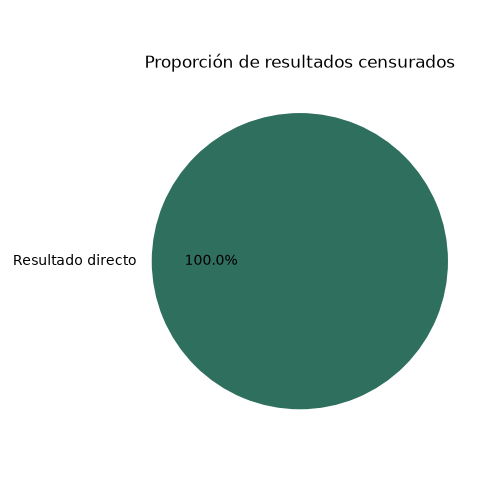
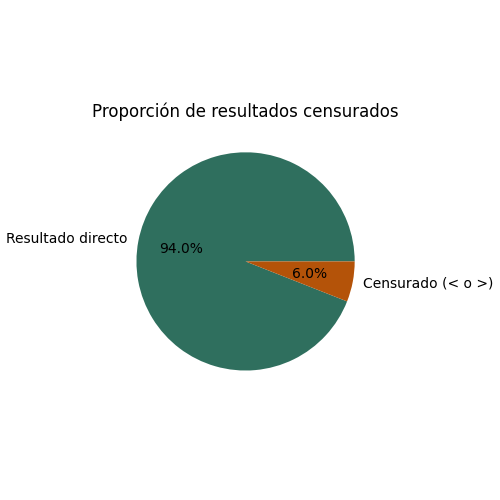
Analisis y contextualización
Se hico el análisis de la dimensión

diff --git a/templates/Dimension_Territorial.html b/templates/Dimension_Territorial.html
@@ -16,7 +16,6 @@
 {% set resultados = datos.resultados %}
 {% set mayor = datos.mayor %}
 {% set menor = datos.menor %}
-{% set diferencia = datos.diferencia %}
 {% set unidad = datos.unidad %}
 {% set graficos_indicadores = datos.graficos_indicadores %}
 {% set histograma = datos.histograma %}
@@ -26,6 +25,7 @@
 
 <div class="territorial">
 	<div class="container">
+		<p class="territorial-descripcion">La población se muestra con una distribución por medios de departamentos y luego segmentados por municipios y puntos de monitoreos pertenecientes al IDEAM, donde se hace la delimitación por la cantidad de registro recolectados en cada uno de los mencionados anterior ment y esto despues de la pregunta principal</p>
 		{% if sin_datos %}
 		<section class="territorial-tarjeta territorial-vacio" role="status">
 			<h2>No hay datos territoriales para mostrar</h2>
@@ -107,10 +107,8 @@
 					</div>
 					{% endfor %}
 				</div>
-				<p class="territorial-lectura">
-					Mayor cantidad: <strong>{{ mayor.territorio }}</strong> ({{ "{:,}".format(mayor.registros).replace(",", ".") }}; {{ "%.2f"|format(mayor.participacion) }}%).
-					Menor cantidad: <strong>{{ menor.territorio }}</strong> ({{ "{:,}".format(menor.registros).replace(",", ".") }}; {{ "%.2f"|format(menor.participacion) }}%).
-					Diferencia: <strong>{{ "{:,}".format(diferencia).replace(",", ".") }} registros</strong>.
+				<p class="territorial-interpretacion">
+					<strong>Interpretación:</strong> {{ mayor.territorio }} reúne más registros y {{ menor.territorio }} menos. Esto muestra cómo se distribuyen las mediciones entre los territorios, no cuál tiene mejor o peor calidad del agua.
 				</p>
 			</section>
 
@@ -146,15 +144,18 @@
 				<div class="territorial-grafico">
 					<h3 class="h6">Barras: mediciones por indicador</h3>
 					<canvas id="grafico-barras" role="img" aria-label="Gráfico de barras con mediciones por indicador"></canvas>
+					<p class="territorial-interpretacion"><strong>Interpretación:</strong> permite comparar los registros obtenidos para cada variable —pH, conductividad eléctrica, nitrato, sulfato, temperatura, oxígeno y fósforo total— en el territorio filtrado. En la visualización revisada predominan los registros de pH, mientras que las demás variables tienen menor presencia; las cantidades cambian al modificar los filtros.</p>
 				</div>
 				<div class="territorial-grafico">
 					<h3 class="h6">Pastel: participación por indicador</h3>
 					<canvas id="grafico-pastel" role="img" aria-label="Gráfico de pastel con participación de cada indicador"></canvas>
+					<p class="territorial-interpretacion"><strong>Interpretación:</strong> permite comparar de forma visual la participación de los indicadores analizados. La gráfica también hace evidente que faltan registros de algunas variables; contar con mediciones más completas ayudaría a realizar un análisis más sólido y a identificar con mayor claridad los aspectos que requieren atención.</p>
 				</div>
 				<div class="territorial-grafico">
 					<h3 class="h6">Histograma: distribución de resultados</h3>
 					<p class="territorial-lectura" id="histograma-nota"></p>
 					<canvas id="grafico-histograma" role="img" aria-label="Histograma de resultados del indicador seleccionado"></canvas>
+					<p class="territorial-interpretacion" id="histograma-interpretacion"><strong>Interpretación:</strong> la distribución de los resultados de pH se concentra dentro de un rango habitual, aunque hay mediciones por encima y por debajo del promedio. Los valores más altos indican menor acidez o mayor alcalinidad; los más bajos pueden asociarse con mayor acidez.</p>
 				</div>
 			</div>
 		</section>
@@ -192,7 +193,7 @@
 		{% endif %}
 		<section class="territorial-tarjeta" aria-labelledby="territorial-caracteristicas">
 			<h2 id="territorial-caracteristicas">Diferencias en las características medidas</h2>
-			{% if indicador_seleccionado and comparacion_unidades_compatible and comparacion_resultados.mayor %}
+			{% if indicador_seleccionado and comparacion_unidades_compatible and total_territorios > 1 and comparacion_resultados.mayor and comparacion_resultados.mayor.valor != comparacion_resultados.menor.valor %}
 				<p class="territorial-subtitulo">
 					Para <strong>{{ indicador_seleccionado }}</strong>{% if unidad %} ({{ unidad }}){% endif %},
 					el promedio más alto está en <strong>{{ comparacion_resultados.mayor.territorio }}</strong>
@@ -247,6 +248,65 @@
 		{% if territorio_seleccionado %}
 		</details>
 		{% endif %}
+
+		<section class="territorial-tarjeta territorial-tarjeta-hallazgo" aria-labelledby="territorial-conocimientos-titulo">
+			<h2 id="territorial-conocimientos-titulo">Conocimientos evidentes</h2>
+			<article class="territorial-conocimiento">
+				<h3>Conocimiento 1: La cantidad de mediciones varía entre territorios</h3>
+				<dl>
+					<dt>Pregunta</dt>
+					<dd>¿Cómo se distribuyen los registros entre los territorios?</dd>
+					<dt>Variables</dt>
+					<dd>{{ nivel_seleccionado }}, cantidad de registros{% if indicador_seleccionado %} y {{ indicador_seleccionado }}{% endif %}.</dd>
+					<dt>Procedimiento</dt>
+					<dd>Se contaron los registros por {{ nivel_seleccionado|lower }} y se calculó qué porcentaje representan del total analizado.</dd>
+					<dt>Evidencia</dt>
+					<dd>{{ mayor.territorio }} presenta {{ "{:,}".format(mayor.registros).replace(",", ".") }} registros ({{ "%.2f"|format(mayor.participacion) }}%); {{ menor.territorio }} presenta {{ "{:,}".format(menor.registros).replace(",", ".") }} ({{ "%.2f"|format(menor.participacion) }}%).</dd>
+					<dt>Hallazgo</dt>
+					<dd>La cantidad de registros no es igual en todos los territorios: {{ mayor.territorio }} tiene la mayor cantidad y {{ menor.territorio }} la menor.</dd>
+					<dt>Interpretación</dt>
+					<dd>La diferencia refleja cómo está distribuida la información y la cobertura del monitoreo territorial.</dd>
+					<dt>Utilidad</dt>
+					<dd>Ayuda a identificar territorios con poca información y orientar dónde fortalecer la recolección de muestras.</dd>
+					<dt>Limitación</dt>
+					<dd>Un mayor número de registros no significa, por sí solo, mejor o peor calidad del agua; también puede deberse a que allí se realizaron más mediciones.</dd>
+				</dl>
+			</article>
+
+			{% if indicador_seleccionado and comparacion_unidades_compatible and comparacion_resultados.mayor %}
+			<article class="territorial-conocimiento">
+				<h3>Conocimiento 2: El resultado de {{ indicador_seleccionado }} difiere entre territorios</h3>
+				<dl>
+					<dt>Pregunta</dt>
+					<dd>¿En qué territorios se observan los promedios más alto y más bajo para el indicador seleccionado?</dd>
+					<dt>Variables</dt>
+					<dd>{{ nivel_seleccionado }}, {{ indicador_seleccionado }}, resultado{% if unidad %} ({{ unidad }}){% endif %}.</dd>
+					<dt>Procedimiento</dt>
+					<dd>Se agruparon los resultados numéricos del indicador por territorio y se compararon sus promedios.</dd>
+					<dt>Evidencia</dt>
+					<dd>El promedio más alto se observa en {{ comparacion_resultados.mayor.territorio }} ({{ "%.3f"|format(comparacion_resultados.mayor.valor) }}{% if unidad %} {{ unidad }}{% endif %}) y el más bajo en {{ comparacion_resultados.menor.territorio }} ({{ "%.3f"|format(comparacion_resultados.menor.valor) }}{% if unidad %} {{ unidad }}{% endif %}).</dd>
+					<dt>Hallazgo</dt>
+					<dd>Los promedios del indicador seleccionado no son iguales entre los territorios analizados.</dd>
+					<dt>Interpretación</dt>
+					<dd>La diferencia señala una variación territorial que puede revisarse con los datos de cada punto de monitoreo.</dd>
+					<dt>Utilidad</dt>
+					<dd>Permite priorizar la revisión de los territorios con valores que ameriten seguimiento.</dd>
+					<dt>Limitación</dt>
+					<dd>El promedio resume las mediciones disponibles y no demuestra que el territorio sea la causa de la diferencia.</dd>
+				</dl>
+			</article>
+			{% endif %}
+		</section>
+
+		<section class="territorial-tarjeta territorial-tarjeta-hallazgo" aria-labelledby="territorial-limitacion-titulo">
+			<h2 id="territorial-limitacion-titulo">Limitación del análisis</h2>
+			<p class="territorial-lectura">Un territorio con más registros puede tener más puntos de monitoreo, no necesariamente una condición distinta del agua. Los gráficos describen los datos disponibles, pero no explican las causas de las diferencias.</p>
+		</section>
+
+		<section class="territorial-tarjeta territorial-tarjeta-hallazgo" aria-labelledby="territorial-decision-titulo">
+			<h2 id="territorial-decision-titulo">Posible decisión sustentada en los datos</h2>
+			<p class="territorial-lectura">Fortalecer el monitoreo en los territorios con pocos registros y revisar con más detalle aquellos donde los resultados del indicador seleccionado se concentran en rangos que requieren atención.</p>
+		</section>
 	</div>
 </div>
 <script src="https://cdn.jsdelivr.net/npm/chart.js@4.4.7/dist/chart.umd.min.js"></script>
@@ -392,6 +452,14 @@
 			graficos.histograma.update();
 
 			const nota = document.getElementById("histograma-nota");
+			const interpretacion = document.getElementById("histograma-interpretacion");
+			if (indicadorHistograma.toLocaleLowerCase("es").includes("ph")) {
+				interpretacion.innerHTML =
+					"<strong>Interpretación:</strong> los resultados de pH se concentran dentro de un rango habitual, aunque hay mediciones por encima y por debajo del promedio. Los valores más altos indican menor acidez o mayor alcalinidad; los más bajos pueden asociarse con mayor acidez.";
+			} else {
+				interpretacion.innerHTML =
+					"<strong>Interpretación:</strong> la distribución muestra los rangos donde se agrupan más resultados del indicador seleccionado. Los valores repartidos entre varios rangos reflejan variación entre las mediciones.";
+			}
 			if (unidades.length > 1) {
 				nota.textContent = `No se mezclan resultados de ${indicadorHistograma}: hay varias unidades.`;
 			} else if (!valores.length) {

diff --git a/static/css/styles.css b/static/css/styles.css
@@ -484,6 +484,45 @@ button:focus-visible {
 	box-shadow: 0 6px 20px rgb(23 107 85 / 6%);
 }
 
+.territorial-tarjeta-hallazgo {
+	border-color: rgb(0 169 157 / 16%);
+	background: linear-gradient(
+		120deg,
+		rgb(121 192 0 / 8%),
+		rgb(0 169 157 / 7%)
+	);
+}
+
+.territorial-conocimiento {
+	margin-top: 1rem;
+	padding: 1rem 1.25rem;
+	border: 1px solid var(--territorial-borde);
+	border-radius: 0.65rem;
+	background: rgb(255 255 255 / 78%);
+}
+
+.territorial-conocimiento h3 {
+	margin: 0 0 0.75rem;
+	color: var(--territorial-verde-oscuro);
+	font-size: 1.08rem;
+}
+
+.territorial-conocimiento dl {
+	display: grid;
+	grid-template-columns: minmax(110px, 145px) minmax(0, 1fr);
+	gap: 0.45rem 1rem;
+	margin: 0;
+}
+
+.territorial-conocimiento dt {
+	color: var(--territorial-verde);
+	font-weight: 600;
+}
+
+.territorial-conocimiento dd {
+	margin: 0;
+}
+
 .territorial-filtros h2,
 .territorial-tarjeta h2 {
 	margin: 0 0 0.3rem;
@@ -494,6 +533,11 @@ button:focus-visible {
 .territorial-subtitulo {
 	margin-bottom: 1rem;
 	color: var(--territorial-suave);
+}
+
+.territorial-descripcion {
+	margin: 1.25rem 0 0;
+	color: var(--territorial-texto);
 }
 
 .territorial-controles {
@@ -699,6 +743,16 @@ button:focus-visible {
 	color: var(--territorial-suave);
 }
 
+.territorial-interpretacion {
+	margin: 1rem 0 0;
+	padding: 0.8rem 1rem;
+	border-left: 4px solid #d29a25;
+	border-radius: 0.4rem;
+	background: #fff7df;
+	color: #543d10;
+	line-height: 1.6;
+}
+
 .territorial-vacio {
 	padding: 2rem;
 	color: var(--territorial-suave);
@@ -752,20 +806,34 @@ button:focus-visible {
 
 .territorial-graficos {
 	display: grid;
-	grid-template-columns: repeat(auto-fit, minmax(min(100%, 340px), 1fr));
-	gap: 1.25rem;
+	grid-template-columns: 1fr;
+	gap: 1rem;
 }
 
 .territorial-grafico {
 	position: relative;
-	min-height: 320px;
+	padding: 1rem;
+	border: 1px solid var(--territorial-borde);
+	border-radius: 0.75rem;
+	background: #fff;
 }
 
 .territorial-grafico canvas {
+	width: 100%;
+	height: 280px;
 	max-height: 300px;
 }
 
 @media (max-width: 767.98px) {
+	.territorial-conocimiento dl {
+		grid-template-columns: 1fr;
+		gap: 0.15rem;
+	}
+
+	.territorial-conocimiento dd {
+		margin-bottom: 0.45rem;
+	}
+
 	.territorial-grid {
 		grid-template-columns: 1fr;
 	}
